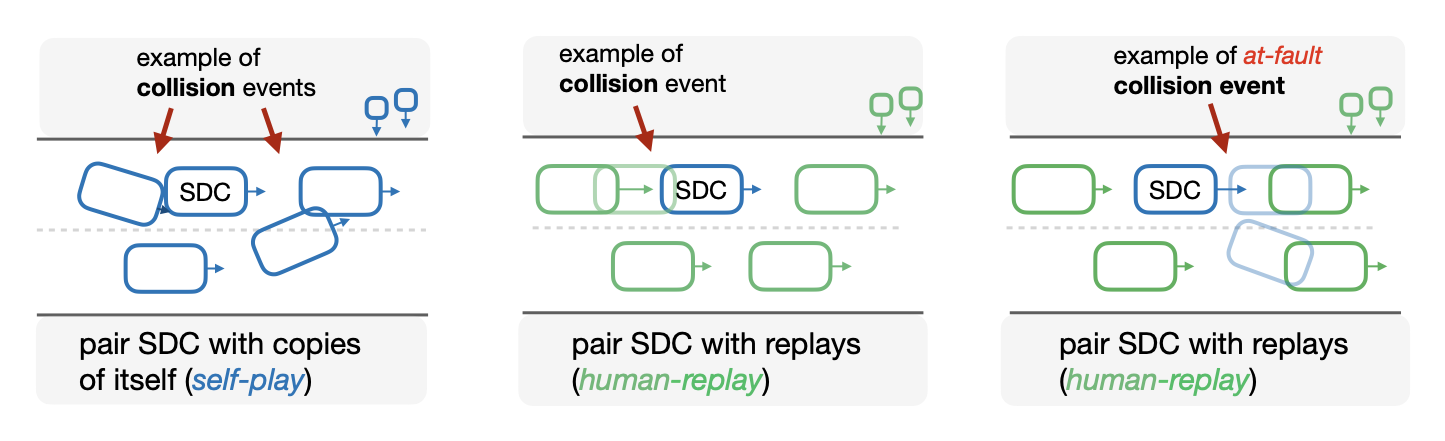
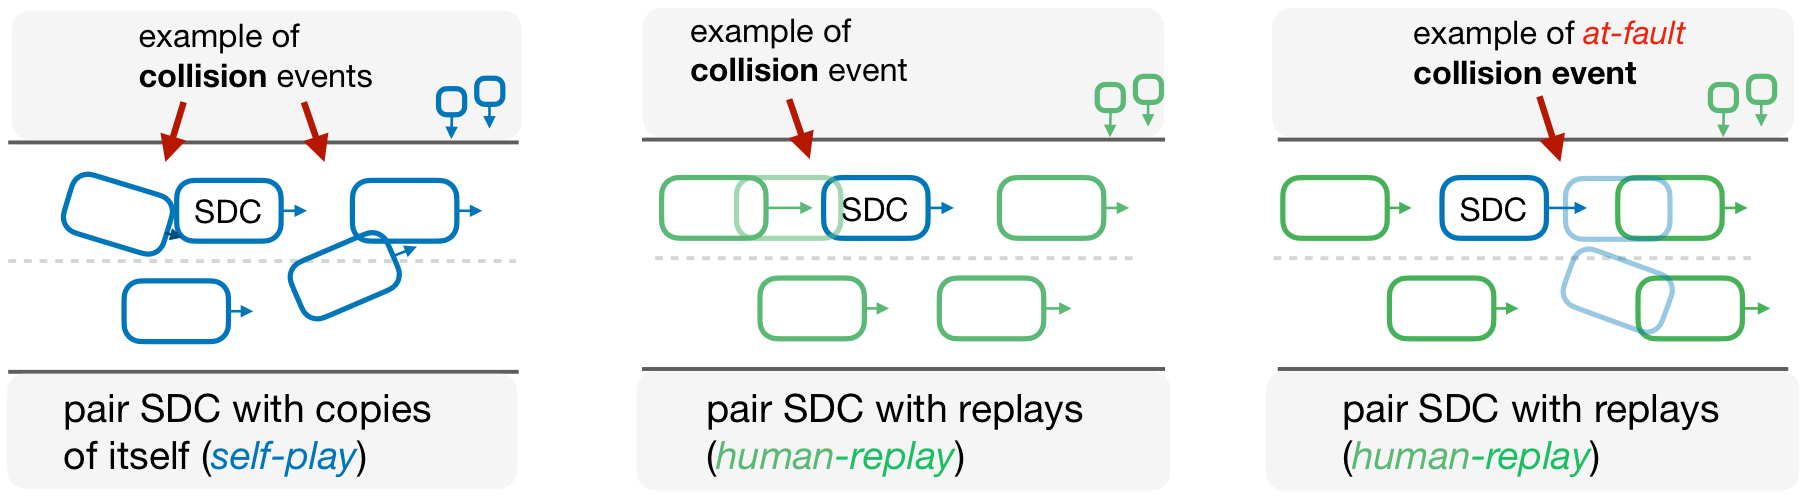
Update site for spiced self-play manuscript

Changed region(s): [[0.6851, 0.0295, 0.9965, 0.9433], [0.3426, 0.0295, 0.654, 0.9433], [0.0, 0.059, 0.3114, 0.9433]]

diff --git a/index.html b/index.html
@@ -6,7 +6,7 @@
     <title>Human-like autonomy emerges from self-play and a pinch of human data</title>
     <meta
       name="description"
-      content="Project website for Human-like autonomy emerges from self-play and a pinch of human data."
+      content="Project website for spiced self-play in Human-like autonomy emerges from self-play and a pinch of human data."
     >
     <link rel="stylesheet" href="styles.css">
   </head>
@@ -51,9 +51,10 @@
             <sup>5</sup>Valeo
           </p>
           <p class="hero-copy">
-            We train driving policies with large-scale self-play simulation and
-            use a small amount of human demonstrations as an RL regularizer,
-            improving safe coordination with logged human driving trajectories.
+            Spiced self-play combines over 60 years of simulated self-play with
+            30 minutes of human driving data as a behavioral anchor, improving
+            coordination with logged human trajectories without reward
+            engineering or domain randomization.
           </p>
           <div class="hero-actions" aria-label="Paper links">
             <a class="button primary" href="Human_like_autonomy.pdf">
@@ -72,16 +73,16 @@
           <span>safe task completion with human-replay proxies</span>
         </div>
         <div class="metric">
-          <strong>125,000×</strong>
-          <span>less human demonstration data than the imitation-learning baseline</span>
+          <strong>2,500×</strong>
+          <span>less human driving data than imitation-learning baselines</span>
         </div>
         <div class="metric">
           <strong>20B</strong>
           <span>self-play transitions, roughly 63 years of driving</span>
         </div>
         <div class="metric">
-          <strong>30 min</strong>
-          <span>of demonstrations used as an RL regularizer</span>
+          <strong>15 hrs</strong>
+          <span>end-to-end training on one consumer GPU</span>
         </div>
       </section>
 
@@ -106,15 +107,15 @@
                 class="is-active"
                 data-slide
                 src="reg_self_play_pufferdrive_demos/reg_good/wait_for_pedestrian.gif"
-                alt="Regularized policy slowing and waiting for a pedestrian."
+                alt="Spiced policy slowing and waiting for a pedestrian."
               >
               <img
                 data-slide
                 hidden
                 src="reg_self_play_pufferdrive_demos/reg_good/cb75c7b3-b20e-50.gif"
-                alt="Additional regularized rollout in human-replay evaluation."
+                alt="Additional spiced rollout in human-replay evaluation."
               >
-              <p>Regularized · human-replay</p>
+              <p>Spiced · human-replay</p>
               <div class="carousel-controls" aria-label="Waiting for a pedestrian clips">
                 <button class="carousel-button" type="button" data-carousel-prev aria-label="Previous clip">‹</button>
                 <span data-carousel-count>1 / 2</span>
@@ -122,7 +123,7 @@
               </div>
             </div>
             <h3>Waiting for a pedestrian</h3>
-            <p>The regularized policy completes the scenario while yielding an interaction that is more readily anticipated.</p>
+            <p>The spiced policy completes the scenario while yielding an interaction that is more readily anticipated.</p>
           </article>
           <article class="media-slot">
             <div class="media-frame demo-frame" data-carousel>
@@ -146,7 +147,7 @@
                 playsinline
                 preload="metadata"
               ></video>
-              <p>Regularized · rollout</p>
+              <p>Spiced · rollout</p>
               <div class="carousel-controls" aria-label="Coordinated interaction clips">
                 <button class="carousel-button" type="button" data-carousel-prev aria-label="Previous clip">‹</button>
                 <span data-carousel-count>1 / 2</span>
@@ -154,7 +155,7 @@
               </div>
             </div>
             <h3>Coordinated interaction</h3>
-            <p>Regularized self-play remains task-effective while staying close to the behavior induced by the anchor.</p>
+            <p>Spiced self-play remains task-effective while staying close to behavior induced by the human-data anchor.</p>
           </article>
           <article class="media-slot">
             <div class="media-frame demo-frame" data-carousel>
@@ -206,7 +207,7 @@
               </div>
             </div>
             <h3>Transfer failure under replay</h3>
-            <p>Without the RL anchor, self-play may converge to behaviors that transfer poorly to human-replay evaluation.</p>
+            <p>Without the human-data anchor, self-play may converge to behaviors that transfer poorly to human-replay evaluation.</p>
           </article>
           <article class="media-slot">
             <div class="media-frame demo-frame" data-carousel>
@@ -214,15 +215,15 @@
                 class="is-active"
                 data-slide
                 src="reg_self_play_pufferdrive_demos/reg_failures/714d0c80-bedc-51.gif"
-                alt="Regularized policy failure example."
+                alt="Spiced policy failure example."
               >
               <img
                 data-slide
                 hidden
                 src="reg_self_play_pufferdrive_demos/reg_failures/a0774ac1-bb6c-58.gif"
-                alt="Additional regularized policy failure example."
+                alt="Additional spiced policy failure example."
               >
-              <p>Regularized · failure</p>
+              <p>Spiced · failure</p>
               <div class="carousel-controls" aria-label="Remaining failure clips">
                 <button class="carousel-button" type="button" data-carousel-prev aria-label="Previous clip">‹</button>
                 <span data-carousel-count>1 / 2</span>
@@ -262,7 +263,7 @@
               </div>
             </div>
             <h3>Demonstration data</h3>
-            <p>Expert SDC replays illustrate the demonstrations used to fit the behavioral cloning anchor.</p>
+            <p>Expert SDC replays illustrate the demonstrations used to fit the behavioral anchor.</p>
           </article>
         </div>
       </section>
@@ -270,29 +271,31 @@
       <section class="section intro-section" id="overview">
         <div class="section-heading">
           <p class="eyebrow">Summary</p>
-          <h2>A small amount of human data regularizes self-play toward human-compatible driving.</h2>
+          <h2>Spiced self-play uses a pinch of human data to steer scalable self-play toward human-compatible driving.</h2>
         </div>
         <div class="lede">
           <p>
             Self-play RL can scale through simulated experience, but policies
-            trained only against themselves may adopt driving conventions that do
-            not coordinate with human drivers. We regularize PPO self-play toward
-            a behavioral cloning anchor trained from a small demonstration set.
+            trained only against themselves may adopt effective driving
+            conventions that do not coordinate with human drivers. Spiced
+            self-play keeps self-play as the main training engine and adds a
+            small behavioral cloning anchor from human driving data.
           </p>
           <p>
-            In held-out Waymo Open Motion scenarios, adding approximately 30
-            minutes of human demonstrations improves safe task completion under
-            human replay to 0.994, outperforming both unregularized self-play and
-            the imitation-learning baseline.
+            With 30 minutes of Waymo human driving data and 20B self-play
+            transitions, spiced policies reach 0.994 safe task completion under
+            human replay, outperforming both unregularized self-play and
+            SMART-tiny CLSFT while avoiding reward engineering and domain
+            randomization.
           </p>
         </div>
         <div class="detail-grid" aria-label="Approach details">
           <article>
-            <h3>RL regularizer</h3>
+            <h3>Spiced objective</h3>
             <p>
-              The behavioral cloning anchor is fit once from demonstrations and
-              used during PPO updates; it complements rather than replaces
-              self-play experience.
+              PPO training uses a minimal safe-goal-reaching reward, while the
+              behavioral anchor keeps updates close to conventions observed in a
+              small human dataset.
             </p>
           </article>
           <article>
@@ -304,11 +307,11 @@
             </p>
           </article>
           <article>
-            <h3>Scaling study</h3>
+            <h3>Data scaling</h3>
             <p>
-              The experiments vary map diversity, demonstration data from 30
-              minutes to 3 hours, and regularization strength to study the
-              human-data scaling behavior.
+              The experiments vary map diversity and human driving data from
+              minutes to full-dataset references to measure when coordination
+              emerges.
             </p>
           </article>
         </div>
@@ -335,20 +338,21 @@
       <section class="section results-section" id="results">
         <div class="section-heading">
           <p class="eyebrow">Results</p>
-          <h2>Regularized self-play improves safe coordination with a fraction of the human data.</h2>
+          <h2>Spiced self-play improves safe coordination with a fraction of the human data.</h2>
         </div>
 
         <div class="result-grid">
           <figure class="figure-panel scroll-figure span-full">
             <img
               src="assets/figure-safe-coordination.png"
-              alt="Plots comparing safe task completion against human demonstration data and total training transitions for regularized self-play, self-play, and imitation-learning baselines."
+              alt="Plots comparing safe task completion, total training transitions, and trajectory behavior for spiced self-play, self-play, and imitation-learning baselines."
             >
             <figcaption>
-              Headline result from the current manuscript. Regularized self-play
+              Headline result from the current manuscript. Spiced self-play
               reaches 0.994 safe task completion with 20B self-play transitions
-              and roughly 30 minutes of demonstrations, outperforming both
-              unregularized self-play and the imitation-learning baseline.
+              and roughly 30 minutes of human driving data, improving over
+              unregularized self-play while using 2,500× less human data than
+              imitation-learning baselines.
             </figcaption>
           </figure>
 
@@ -358,20 +362,21 @@
               alt="Chart showing open-loop and closed-loop behavior for anchor behavioral cloning policies."
             >
             <figcaption>
-              The behavioral cloning anchor improves with additional
-              demonstration data, but regularized self-play remains far below the
-              human-data scale used by imitation-learning baselines.
+              Anchor diagnostics show open-loop accuracy improves with more
+              human driving data, while closed-loop route progress and score
+              remain strong under both self-play and human replay.
             </figcaption>
           </figure>
 
           <figure class="figure-panel scroll-figure">
             <img
-              src="assets/figure-compatibility-tradeoff.png"
-              alt="Chart showing the compatibility tradeoff for different training settings."
+              src="assets/figure-collision-severity.png"
+              alt="Charts comparing collision severity distributions for unregularized and spiced self-play policies."
             >
             <figcaption>
-              The regularization coefficient controls the tradeoff between the
-              self-play objective and behavior compatible with human replay.
+              Spiced policies also change the character of failures: collisions
+              are less severe on average and concentrate at lower per-event speed
+              changes than the unregularized self-play baseline.
             </figcaption>
           </figure>
         </div>
@@ -380,22 +385,23 @@
       <section class="section abstract-section" id="abstract">
         <div class="section-heading">
           <p class="eyebrow">Abstract</p>
-          <h2>Self-play policies are regularized toward a lightweight behavioral cloning anchor.</h2>
+          <h2>Spiced self-play adds a small behavioral anchor to scalable self-play.</h2>
         </div>
         <div class="abstract-copy">
           <p>
-            Self-play reinforcement learning can use large-scale simulation in
-            place of large human demonstration datasets, but policies trained
-            only through self-play can behave unpredictably around unseen human
-            policies. Prior work often addresses this through reward engineering
-            and domain randomization.
+            Self-play reinforcement learning can substitute cheap, large-scale
+            simulation for large human driving datasets, but policies trained
+            only through self-play can converge to effective yet incompatible
+            driving conventions. Prior work often addresses this through reward
+            engineering and domain randomization.
           </p>
           <p>
-            We train driving policies with a minimal reward function, over 60
-            years of self-play simulation, and 30 minutes of human
-            demonstrations. The resulting agents coordinate with logged human
-            trajectories while using 125,000× less human data and 25× fewer GPU
-            hours than imitation-learning baselines.
+            We introduce spiced self-play: policies trained with a minimal
+            safe-goal-reaching reward, over 60 years of self-play simulation, and
+            30 minutes of human driving data as a behavioral anchor. The
+            resulting policies coordinate with logged human trajectories using
+            2,500× less human data than imitation-learning baselines, and the
+            full pipeline runs in 15 hours on a single consumer-grade GPU.
           </p>
         </div>
       </section>

diff --git a/README.md b/README.md
@@ -1,6 +1,6 @@
 # Human-like autonomy paper site
 
-Static project website for:
+Static project website for spiced self-play in:
 
 **Human-like autonomy emerges from self-play and a pinch of human data**
 